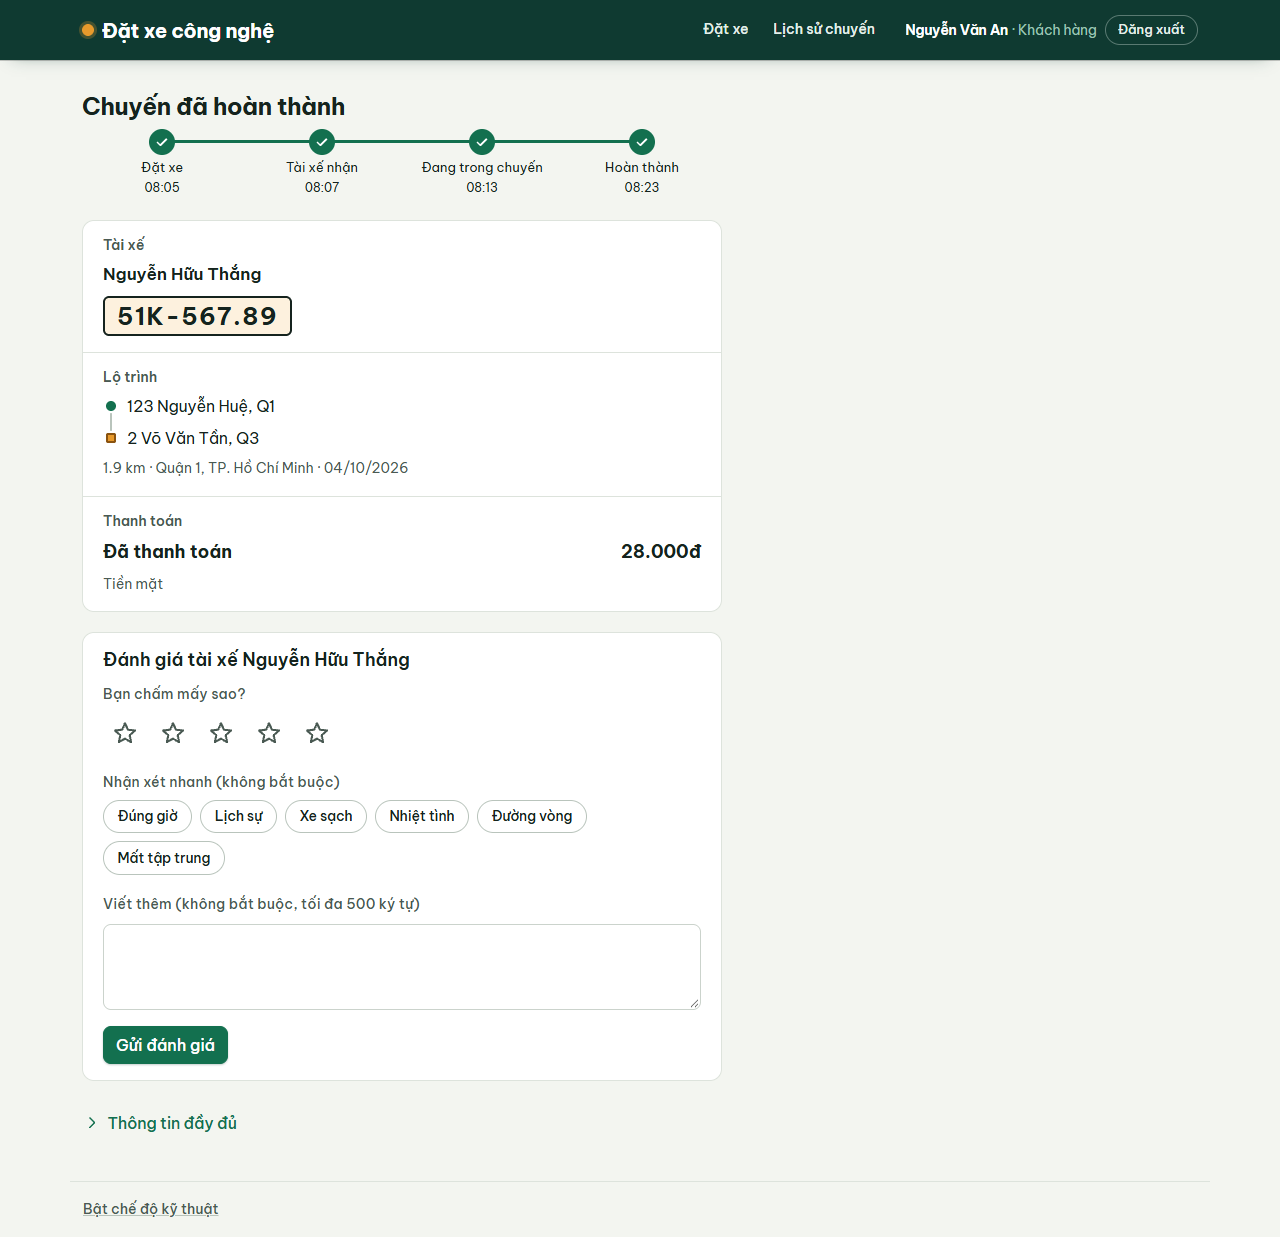
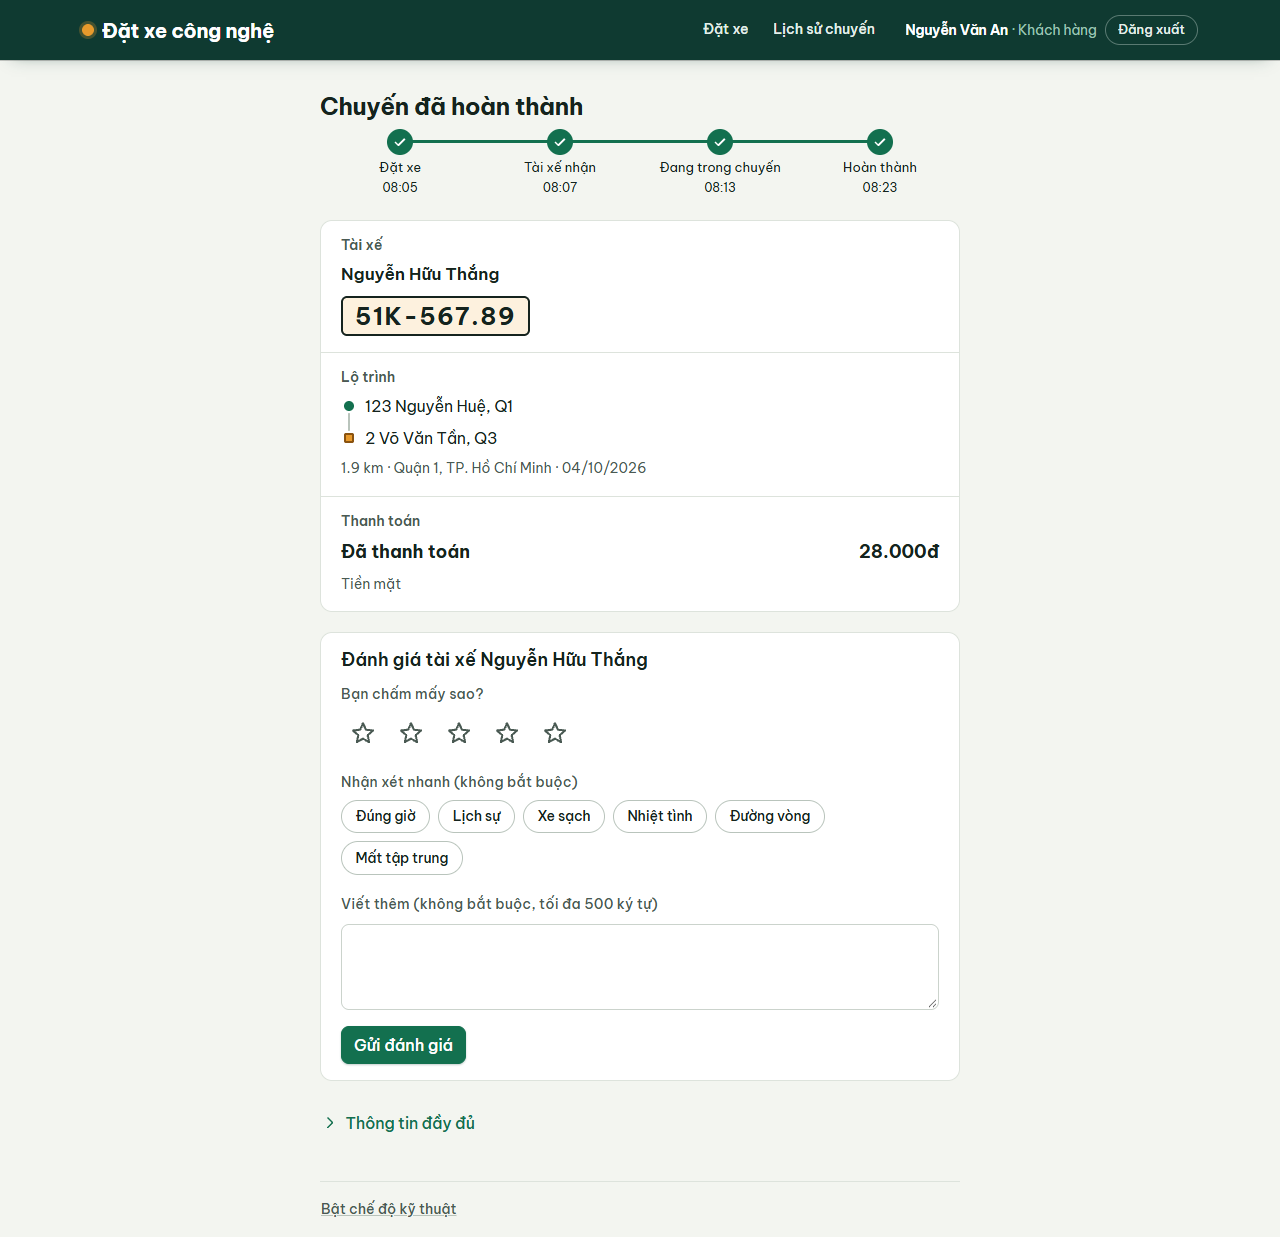
feat(app): trang thao tác nằm trong cột giữa trên màn hình rộng
- Trước đây trên màn hình rộng, nội dung các trang một cột dồn về nửa trái khung 1320px, nửa phải bỏ trống.
- Giờ các trang này nằm trong cột giữa (.page-col), lề hai bên bằng nhau:
  - rộng 40rem: đặt xe, lịch sử, chi tiết chuyến, các trang tài xế, trang chủ, trang lỗi, biểu mẫu thêm/sửa của quản trị, báo cáo, nhất quán, backup, lộ trình tài xế;
  - rộng 28rem: đăng nhập, đăng ký (bỏ lưới row/col cũ).
- Trang con chọn bề ngang bằng {% set page_width = "narrow" %} hoặc "compact". base.html bọc thông báo và nội dung trong cột đó; chân trang theo cùng cột.
- Không đổi bề ngang:
  - trang bảng quản trị (khách, tài xế, xe, khuyến mãi, tài khoản, khu vực);
  - trang Kết nối và NoSQL;
  - panel CQL của chế độ kỹ thuật.
- Bỏ max-width viết tay trong biểu mẫu quản trị và bộ lọc chuyến chờ. Hai bảng ở trang nhất quán được bọc table-responsive để không tràn cột.
- Điện thoại không đổi: cột chiếm hết bề ngang, thanh đặt xe vẫn dính đáy màn hình.
- Chụp lại 5 ảnh máy tính trong docs/giao_dien; HANDOFF ghi lại.

diff --git a/DoAn/app/templates/register.html b/DoAn/app/templates/register.html
@@ -1,26 +1,23 @@
 {% extends "base.html" %}
+{% set page_width = "compact" %}
 {% block title %}Đăng ký{% endblock %}
 {% block content %}
-  <div class="row justify-content-center">
-    <div class="col-md-6">
-      <h1 class="h4 mb-3">Đăng ký khách hàng</h1>
-      {% if form_error %}<div class="alert alert-danger">{{ form_error }}</div>{% endif %}
-      <form method="post" action="/register" class="card card-body">
-        <label class="form-label" for="username">Tên đăng nhập</label>
-        <input class="form-control mb-2" id="username" name="username" autocomplete="username" value="{{ form.username or '' }}" required>
-        <label class="form-label" for="password">Mật khẩu (tối thiểu 6 ký tự)</label>
-        <input class="form-control mb-2" id="password" name="password" type="password" autocomplete="new-password" required>
-        <label class="form-label" for="full_name">Họ tên</label>
-        <input class="form-control mb-2" id="full_name" name="full_name" autocomplete="name" value="{{ form.full_name or '' }}" required>
-        <label class="form-label" for="phone">Số điện thoại</label>
-        <input class="form-control mb-2" id="phone" name="phone" type="tel" autocomplete="tel" value="{{ form.phone or '' }}" required>
-        <label class="form-label" for="email">Email</label>
-        <input class="form-control mb-2" id="email" name="email" autocomplete="email" inputmode="email" value="{{ form.email or '' }}" required>
-        <label class="form-label" for="address">Địa chỉ</label>
-        <input class="form-control mb-3" id="address" name="address" autocomplete="street-address" value="{{ form.address or '' }}">
-        <button class="btn btn-primary" type="submit">Đăng ký</button>
-      </form>
-      <p class="mt-3"><a href="/login">Đã có tài khoản? Đăng nhập</a></p>
-    </div>
-  </div>
+  <h1 class="h4 mb-3">Đăng ký khách hàng</h1>
+  {% if form_error %}<div class="alert alert-danger">{{ form_error }}</div>{% endif %}
+  <form method="post" action="/register" class="card card-body">
+    <label class="form-label" for="username">Tên đăng nhập</label>
+    <input class="form-control mb-2" id="username" name="username" autocomplete="username" value="{{ form.username or '' }}" required>
+    <label class="form-label" for="password">Mật khẩu (tối thiểu 6 ký tự)</label>
+    <input class="form-control mb-2" id="password" name="password" type="password" autocomplete="new-password" required>
+    <label class="form-label" for="full_name">Họ tên</label>
+    <input class="form-control mb-2" id="full_name" name="full_name" autocomplete="name" value="{{ form.full_name or '' }}" required>
+    <label class="form-label" for="phone">Số điện thoại</label>
+    <input class="form-control mb-2" id="phone" name="phone" type="tel" autocomplete="tel" value="{{ form.phone or '' }}" required>
+    <label class="form-label" for="email">Email</label>
+    <input class="form-control mb-2" id="email" name="email" autocomplete="email" inputmode="email" value="{{ form.email or '' }}" required>
+    <label class="form-label" for="address">Địa chỉ</label>
+    <input class="form-control mb-3" id="address" name="address" autocomplete="street-address" value="{{ form.address or '' }}">
+    <button class="btn btn-primary" type="submit">Đăng ký</button>
+  </form>
+  <p class="mt-3"><a href="/login">Đã có tài khoản? Đăng nhập</a></p>
 {% endblock %}

diff --git a/DoAn/app/templates/base.html b/DoAn/app/templates/base.html
@@ -1,5 +1,10 @@
 {% from "_trace.html" import panel %}
 {% from "_icons.html" import sprite %}
+{# Bề ngang nội dung: trang con đặt {% set page_width = "narrow" %} (cột giữa, cho trang thao tác và biểu mẫu) hoặc "compact" (đăng nhập, đăng ký).
+   Không đặt thì dùng hết bề ngang khung (trang bảng của quản trị). Panel CQL của chế độ kỹ thuật luôn nằm ngoài cột. #}
+{% if page_width == 'compact' %}{% set page_col = 'page-col page-col-compact' %}
+{% elif page_width == 'narrow' %}{% set page_col = 'page-col' %}
+{% else %}{% set page_col = '' %}{% endif %}
 <!doctype html>
 <html lang="vi">
 <head>
@@ -57,6 +62,7 @@
   </div>
 </nav>
 <main class="container">
+  <div{% if page_col %} class="{{ page_col }}"{% endif %}>
   {% if db_error %}
     <div class="alert alert-danger" role="alert">
       <strong>Hệ thống đang tạm gián đoạn, vui lòng thử lại sau.</strong>
@@ -70,6 +76,7 @@
     <div class="alert alert-{{ 'success' if flash.ok else 'danger' }}" role="alert">{{ flash.message }}</div>
   {% endif %}
   {% block content %}{% endblock %}
+  </div>
   {% if tech %}
     <hr>
     {% if last_trace %}
@@ -78,13 +85,15 @@
     {{ panel("CQL đã chạy", trace, written, matrix) }}
   {% endif %}
 </main>
-<footer class="container app-footer mt-2 py-3 small">
-  <form method="post" action="/tech-mode" class="d-flex flex-wrap align-items-center gap-2">
-    <input type="hidden" name="on" value="{{ '0' if tech else '1' }}">
-    <input type="hidden" name="next" value="{{ (request.url.path ~ ('?' ~ request.url.query if request.url.query else '')) if request.method == 'GET' else '/' }}">
-    <button class="btn btn-link btn-sm p-0" type="submit">{{ 'Tắt chế độ kỹ thuật' if tech else 'Bật chế độ kỹ thuật' }}</button>
-    {% if tech %}<span>Đang hiện lệnh CQL và ghi chú kỹ thuật</span>{% endif %}
-  </form>
+<footer class="container mt-2 small">
+  <div class="app-footer py-3{% if page_col %} {{ page_col }}{% endif %}">
+    <form method="post" action="/tech-mode" class="d-flex flex-wrap align-items-center gap-2">
+      <input type="hidden" name="on" value="{{ '0' if tech else '1' }}">
+      <input type="hidden" name="next" value="{{ (request.url.path ~ ('?' ~ request.url.query if request.url.query else '')) if request.method == 'GET' else '/' }}">
+      <button class="btn btn-link btn-sm p-0" type="submit">{{ 'Tắt chế độ kỹ thuật' if tech else 'Bật chế độ kỹ thuật' }}</button>
+      {% if tech %}<span>Đang hiện lệnh CQL và ghi chú kỹ thuật</span>{% endif %}
+    </form>
+  </div>
 </footer>
 </body>
 </html>

diff --git a/DoAn/app/templates/login.html b/DoAn/app/templates/login.html
@@ -1,19 +1,16 @@
 {% extends "base.html" %}
+{% set page_width = "compact" %}
 {% block title %}Đăng nhập{% endblock %}
 {% block content %}
-  <div class="row justify-content-center">
-    <div class="col-md-5">
-      <h1 class="h4 mb-3">Đăng nhập</h1>
-      {% if note %}<div class="alert alert-{{ note[0] }}">{{ note[1] }}</div>{% endif %}
-      {% if form_error %}<div class="alert alert-danger">{{ form_error }}</div>{% endif %}
-      <form method="post" action="/login" class="card card-body">
-        <label class="form-label" for="username">Tên đăng nhập</label>
-        <input class="form-control mb-2" id="username" name="username" value="{{ username }}" autocomplete="username" required>
-        <label class="form-label" for="password">Mật khẩu</label>
-        <input class="form-control mb-3" id="password" name="password" type="password" autocomplete="current-password" required>
-        <button class="btn btn-primary" type="submit">Đăng nhập</button>
-      </form>
-      <p class="mt-3">Chưa có tài khoản? <a href="/register">Đăng ký khách hàng</a></p>
-    </div>
-  </div>
+  <h1 class="h4 mb-3">Đăng nhập</h1>
+  {% if note %}<div class="alert alert-{{ note[0] }}">{{ note[1] }}</div>{% endif %}
+  {% if form_error %}<div class="alert alert-danger">{{ form_error }}</div>{% endif %}
+  <form method="post" action="/login" class="card card-body">
+    <label class="form-label" for="username">Tên đăng nhập</label>
+    <input class="form-control mb-2" id="username" name="username" value="{{ username }}" autocomplete="username" required>
+    <label class="form-label" for="password">Mật khẩu</label>
+    <input class="form-control mb-3" id="password" name="password" type="password" autocomplete="current-password" required>
+    <button class="btn btn-primary" type="submit">Đăng nhập</button>
+  </form>
+  <p class="mt-3">Chưa có tài khoản? <a href="/register">Đăng ký khách hàng</a></p>
 {% endblock %}

diff --git a/DoAn/app/templates/admin/consistency.html b/DoAn/app/templates/admin/consistency.html
@@ -1,4 +1,5 @@
 {% extends "base.html" %}
+{% set page_width = "narrow" %}
 {% block title %}Kiểm tra nhất quán{% endblock %}
 {% block content %}
   <h1 class="h4 mb-2">Kiểm tra nhất quán</h1>
@@ -16,6 +17,7 @@
   {% if diffs is not none %}
     {% if diffs %}
       <div class="alert alert-warning py-2">Chuyến {{ ride_id }} lệch {{ diffs|length }} chỗ:</div>
+      <div class="table-responsive">
       <table class="table table-sm table-bordered w-auto">
         <thead><tr><th>Bảng</th><th>Cột</th><th>Đúng (theo chuyến gốc)</th><th>Đang có</th></tr></thead>
         <tbody>
@@ -25,6 +27,7 @@
         {% endfor %}
         </tbody>
       </table>
+      </div>
       <form method="post" action="/admin/consistency/reconcile" class="mb-3">
         <input type="hidden" name="ride_id" value="{{ ride_id }}">
         <button class="btn btn-sm btn-warning" type="submit">Đồng bộ lại từ chuyến gốc</button>
@@ -39,6 +42,7 @@
   {% if tech %}<p class="text-muted small tech-note">Tài xế BUSY nhưng không có chuyến ACCEPTED/ONGOING nào (vd lệnh nhận chuyến gặp WriteTimeout kiểu CAS nên kết quả LWT không rõ).
     Giải phóng bằng LWT <code>IF status = 'BUSY'</code>.</p>{% endif %}
   {% if stuck %}
+    <div class="table-responsive">
     <table class="table table-sm table-bordered w-auto align-middle">
       <thead><tr><th>Tài xế</th><th>Họ tên</th><th>Lý do</th><th></th></tr></thead>
       <tbody>
@@ -50,6 +54,7 @@
       {% endfor %}
       </tbody>
     </table>
+    </div>
   {% else %}
     <div class="alert alert-success py-2">Không có tài xế nào bị kẹt.</div>
   {% endif %}

diff --git a/DoAn/app/templates/driver/waiting.html b/DoAn/app/templates/driver/waiting.html
@@ -1,4 +1,5 @@
 {% extends "base.html" %}
+{% set page_width = "narrow" %}
 {% from "_trip.html" import trip %}
 {% from "_icons.html" import icon %}
 {% block title %}Chuyến chờ{% endblock %}
@@ -13,7 +14,7 @@
   {% if tech %}<p class="text-muted small tech-note">Lấy từ <code>rides_by_area_date</code> (city, district, ride_date) lọc <code>status = 'REQUESTED'</code>, ngày tính theo +07:00.</p>{% endif %}
   <details class="disclosure filter"{% if not rides %} open{% endif %}>
     <summary>{{ icon('chevron-right', 'disclosure-icon') }}Đổi khu vực hoặc ngày</summary>
-    <form method="get" action="/driver/waiting" class="row g-2 align-items-end mt-1" style="max-width: 40rem">
+    <form method="get" action="/driver/waiting" class="row g-2 align-items-end mt-1">
       <div class="col-sm-4"><label class="form-label" for="w_city">Thành phố</label>
         <select class="form-select" id="w_city" name="city">
           {% for c in areas %}<option value="{{ c }}" {{ 'selected' if city == c }}>{{ c|city_label }}</option>{% endfor %}

diff --git a/DoAn/app/templates/admin/vehicle_form.html b/DoAn/app/templates/admin/vehicle_form.html
@@ -1,10 +1,11 @@
 {% extends "base.html" %}
+{% set page_width = "narrow" %}
 {% from "admin/_form_macros.html" import errors_box, field %}
 {% block title %}{{ 'Thêm' if is_new else 'Sửa' }} xe{% endblock %}
 {% block content %}
   <h1 class="h4 mb-3">{{ 'Thêm xe' if is_new else 'Sửa xe ' ~ form.vehicle_id }}</h1>
   {{ errors_box(errors) }}
-  <form method="post" action="{{ '/admin/vehicles' if is_new else '/admin/vehicles/' ~ form.vehicle_id }}" style="max-width: 560px">
+  <form method="post" action="{{ '/admin/vehicles' if is_new else '/admin/vehicles/' ~ form.vehicle_id }}">
     {% if is_new %}{{ field('vehicle_id', 'Mã xe', form.vehicle_id, hint='Dạng VEH_...: chữ in hoa, số, gạch dưới') }}{% endif %}
     {{ field('driver_id', 'Mã tài xế', form.driver_id, hint='Phải là tài xế đã tồn tại') }}
     {{ field('license_plate', 'Biển số', form.license_plate, hint='1-15 ký tự, không trùng xe khác') }}

diff --git a/DoAn/app/templates/admin/promotion_form.html b/DoAn/app/templates/admin/promotion_form.html
@@ -1,10 +1,11 @@
 {% extends "base.html" %}
+{% set page_width = "narrow" %}
 {% from "admin/_form_macros.html" import errors_box, field %}
 {% block title %}{{ 'Thêm' if is_new else 'Sửa' }} khuyến mãi{% endblock %}
 {% block content %}
   <h1 class="h4 mb-3">{{ 'Thêm mã khuyến mãi' if is_new else 'Sửa mã khuyến mãi ' ~ form.promo_code }}</h1>
   {{ errors_box(errors) }}
-  <form method="post" action="{{ '/admin/promotions' if is_new else '/admin/promotions/' ~ form.promo_code }}" style="max-width: 560px">
+  <form method="post" action="{{ '/admin/promotions' if is_new else '/admin/promotions/' ~ form.promo_code }}">
     {% if is_new %}{{ field('promo_code', 'Mã', form.promo_code, hint='3-20 ký tự chữ in hoa hoặc số') }}{% endif %}
     {{ field('description', 'Mô tả', form.description, required=False) }}
     {{ field('discount_percent', 'Giảm (%)', form.discount_percent, type='number', hint='1 đến 100') }}

diff --git a/DoAn/app/templates/admin/customer_form.html b/DoAn/app/templates/admin/customer_form.html
@@ -1,10 +1,11 @@
 {% extends "base.html" %}
+{% set page_width = "narrow" %}
 {% from "admin/_form_macros.html" import errors_box, field %}
 {% block title %}{{ 'Thêm' if is_new else 'Sửa' }} khách{% endblock %}
 {% block content %}
   <h1 class="h4 mb-3">{{ 'Thêm khách hàng' if is_new else 'Sửa khách hàng ' ~ form.customer_id }}</h1>
   {{ errors_box(errors) }}
-  <form method="post" action="{{ '/admin/customers' if is_new else '/admin/customers/' ~ form.customer_id }}" style="max-width: 560px">
+  <form method="post" action="{{ '/admin/customers' if is_new else '/admin/customers/' ~ form.customer_id }}">
     {% if is_new %}{{ field('customer_id', 'Mã khách', form.customer_id, hint='Dạng CUST...: chữ in hoa, số, gạch dưới') }}{% endif %}
     {{ field('full_name', 'Họ tên', form.full_name) }}
     {{ field('phone', 'Điện thoại', form.phone, hint='10 chữ số, bắt đầu bằng 0') }}

diff --git a/DoAn/app/templates/admin/driver_form.html b/DoAn/app/templates/admin/driver_form.html
@@ -1,10 +1,11 @@
 {% extends "base.html" %}
+{% set page_width = "narrow" %}
 {% from "admin/_form_macros.html" import errors_box, field %}
 {% block title %}{{ 'Thêm' if is_new else 'Sửa' }} tài xế{% endblock %}
 {% block content %}
   <h1 class="h4 mb-3">{{ 'Thêm tài xế' if is_new else 'Sửa tài xế ' ~ form.driver_id }}</h1>
   {{ errors_box(errors) }}
-  <form method="post" action="{{ '/admin/drivers' if is_new else '/admin/drivers/' ~ form.driver_id }}" style="max-width: 560px">
+  <form method="post" action="{{ '/admin/drivers' if is_new else '/admin/drivers/' ~ form.driver_id }}">
     {% if is_new %}{{ field('driver_id', 'Mã tài xế', form.driver_id, hint='Dạng DRV_...: chữ in hoa, số, gạch dưới') }}{% endif %}
     {{ field('full_name', 'Họ tên', form.full_name) }}
     {{ field('license_number', 'Số bằng lái', form.license_number, hint='Đúng 12 chữ số') }}

diff --git a/DoAn/app/static/app.css b/DoAn/app/static/app.css
@@ -94,6 +94,10 @@ p, li, dd, .form-text { text-wrap: pretty; }
 }
 
 main.container { padding-top: 1.75rem; padding-bottom: 2rem; }
+/* Cột giữa: trang thao tác một cột (đặt xe, chuyến, tài xế, biểu mẫu) nằm giữa màn hình rộng, lề hai bên bằng nhau.
+   Trang bảng quản trị không dùng cột nên trải hết khung; panel CQL nằm ngoài cột. */
+.page-col { max-width: 40rem; margin-inline: auto; }
+.page-col-compact { max-width: 28rem; }
 
 /* Nút và ô nhập */
 .btn { font-weight: 500; transition: background-color .15s ease-out, border-color .15s ease-out, box-shadow .15s ease-out; }

diff --git a/DoAn/app/templates/admin/track.html b/DoAn/app/templates/admin/track.html
@@ -1,4 +1,5 @@
 {% extends "base.html" %}
+{% set page_width = "narrow" %}
 {% block title %}Lộ trình tài xế{% endblock %}
 {% block content %}
   <h1 class="h4 mb-2">Vị trí tài xế {{ driver.full_name }} ({{ driver.driver_id }})</h1>

diff --git a/DoAn/app/templates/admin/backup.html b/DoAn/app/templates/admin/backup.html
@@ -1,4 +1,5 @@
 {% extends "base.html" %}
+{% set page_width = "narrow" %}
 {% block title %}Backup / Restore{% endblock %}
 {% block content %}
   <h1 class="h4 mb-2">Backup và khôi phục dữ liệu (JSON)</h1>
